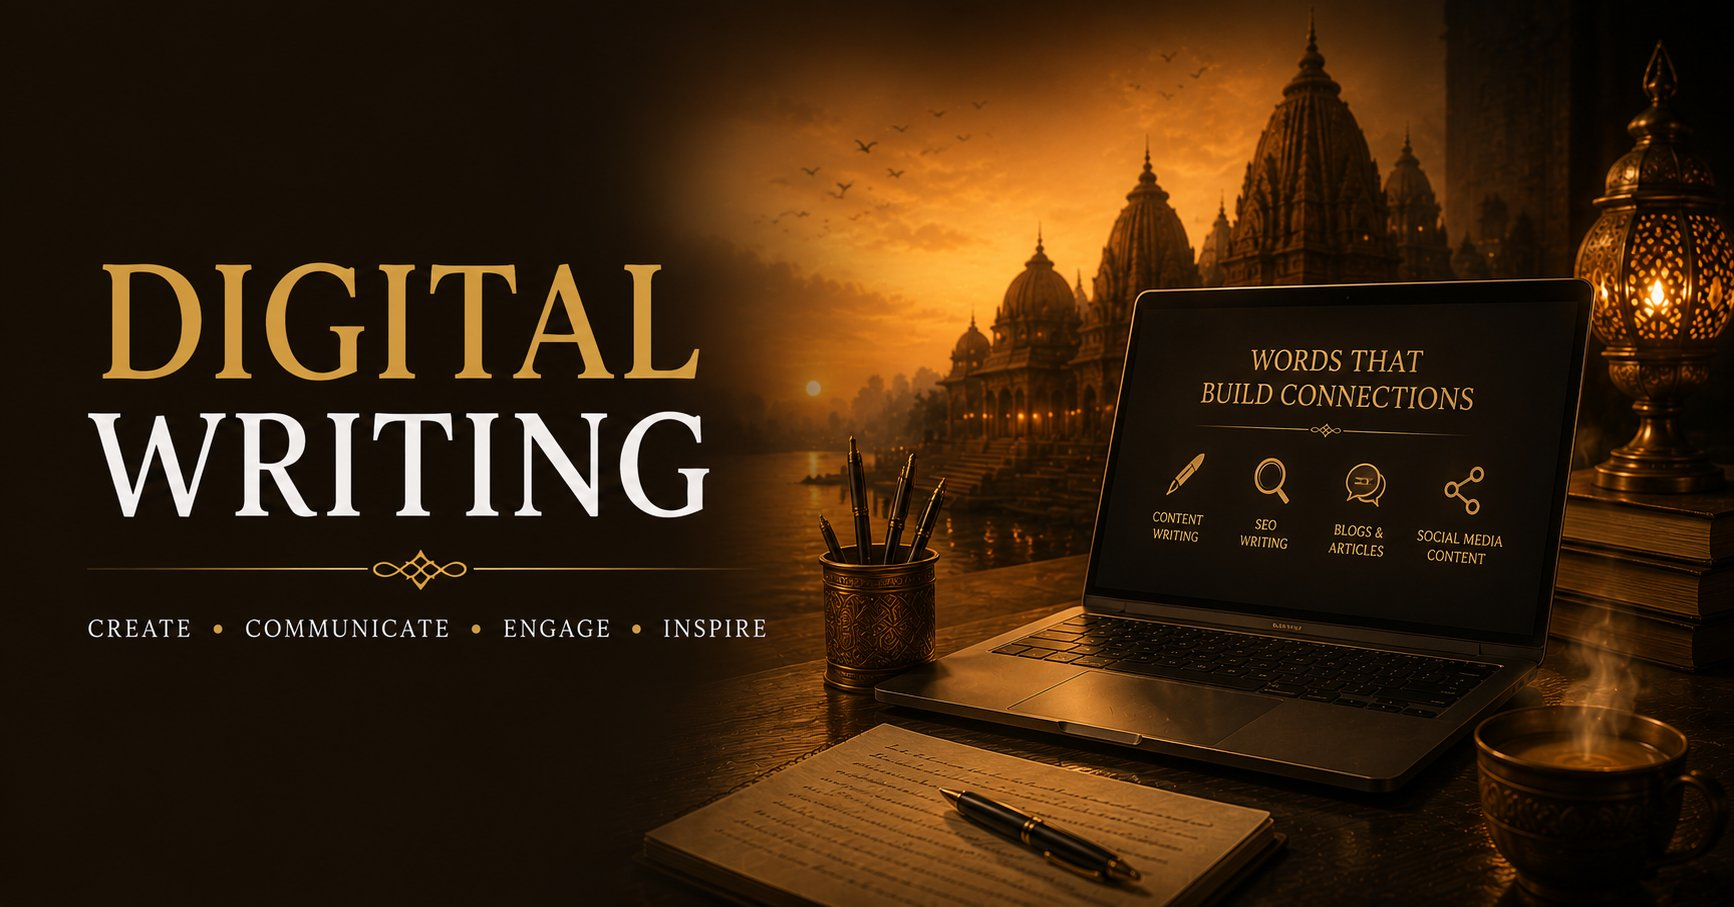
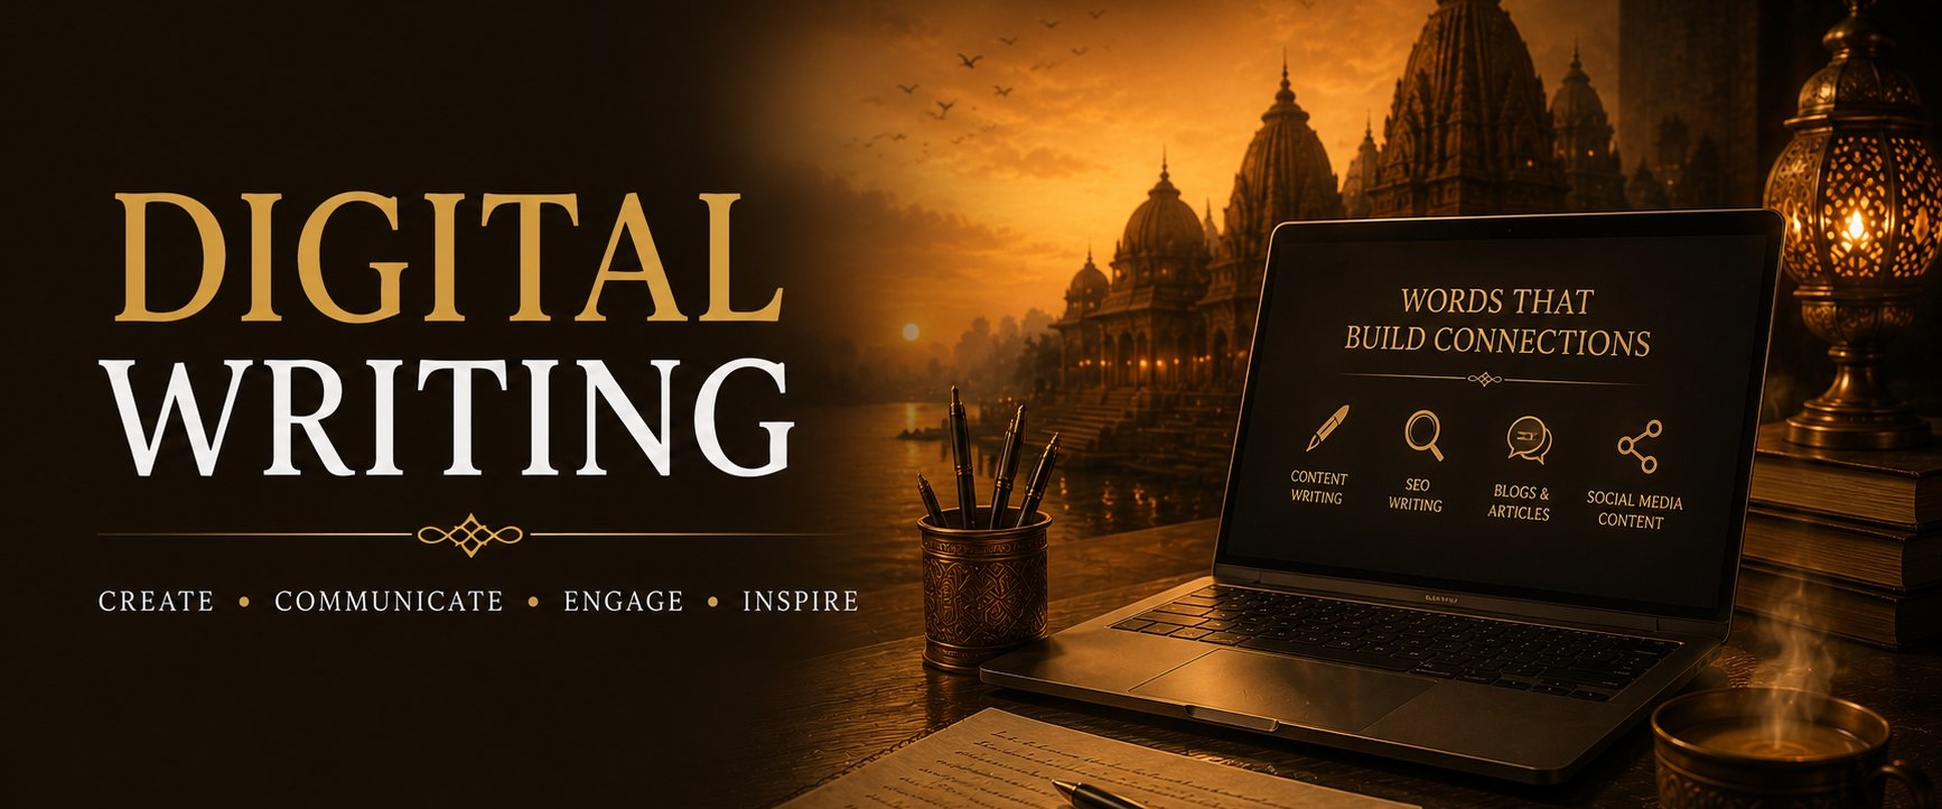
Unify all 12 poster covers to 2.4:1 (1942x809): fix Voice Over, Digital Writing, Commercial & Feature Films alignment and remove inline 82vh

diff --git a/portfolio.css b/portfolio.css
@@ -1927,26 +1927,7 @@ letter-spacing:1px;
 
 }
 /* =====================================================
-   VOICEOVERS — HERO SIZE FIX
-===================================================== */
-
-.voiceovers-page .hero-section,
-.voiceover-page .hero-section {
-    height: 72vh;
-    min-height: 520px;
-    max-height: 760px;
-}
-
-.voiceovers-page .hero-poster img,
-.voiceover-page .hero-poster img {
-    width: 100%;
-    height: 100%;
-    object-fit: cover;
-    display: block;
-}
-
-/* =====================================================
-   VOICEOVERS — INTRO TYPOGRAPHY FIX
+   VOICEOVERS — INTRO TYPOGRAPHY
 ===================================================== */
 
 .voiceovers-page .intro-content span,
@@ -1968,33 +1949,6 @@ letter-spacing:1px;
     line-height: 1.8;
     max-width: 850px;
     margin: 0 auto;
-}
-
-/* =====================================================
-   VOICEOVERS HERO — FINAL SIZE OVERRIDE
-===================================================== */
-
-body.voiceovers-page .hero-section,
-.voiceover-page .hero-section {
-    height: 70vh !important;
-    min-height: 500px !important;
-    max-height: 700px !important;
-    overflow: hidden !important;
-}
-
-body.voiceovers-page .hero-poster,
-body.voiceover-page .hero-poster {
-    width: 100% !important;
-    height: 100% !important;
-    overflow: hidden !important;
-}
-
-body.voiceovers-page .hero-poster img,
-.voiceover-page .hero-poster img {
-    width: 100% !important;
-    height: 100% !important;
-    object-fit: cover !important;
-    display: block !important;
 }
 
 /* =====================================================

diff --git a/digital-writing.html b/digital-writing.html
@@ -44,7 +44,7 @@
     <!-- ================= CSS ================= -->
 
     <link rel="stylesheet"
-          href="portfolio.css?v=subpage_nav_v2">
+          href="portfolio.css?v=posters_aligned_v3">
 
 </head>
 
@@ -87,29 +87,12 @@
                         HERO
 ===================================================== -->
 
-<section class="hero-section"
-         style="height:82vh !important;
-                min-height:0 !important;
-                padding:0 !important;
-                margin:0 !important;
-                position:relative !important;
-                overflow:hidden !important;">
+<section class="hero-section">
 
-    <div class="hero-poster"
-         style="width:100% !important;
-                height:100% !important;
-                margin:0 !important;
-                padding:0 !important;
-                overflow:hidden !important;">
+    <div class="hero-poster">
 
         <img src="images/digital-writing.jpg"
-             alt="Digital Writing"
-             style="display:block !important;
-                    width:100% !important;
-                    height:100% !important;
-                    max-width:none !important;
-                    object-fit:cover !important;
-                    object-position:center center !important;">
+             alt="Digital Writing">
 
     </div>
 

diff --git a/commercial-films.html b/commercial-films.html
@@ -42,7 +42,7 @@
     <!-- EXISTING CSS -->
 
     <link rel="stylesheet"
-          href="portfolio.css?v=subpage_nav_v2">
+          href="portfolio.css?v=posters_aligned_v3">
 
 </head>
 
@@ -85,29 +85,12 @@
                         HERO
 ===================================================== -->
 
-<section class="hero-section"
-         style="height:82vh !important;
-                min-height:0 !important;
-                padding:0 !important;
-                margin:0 !important;
-                position:relative !important;
-                overflow:hidden !important;">
+<section class="hero-section">
 
-    <div class="hero-poster"
-         style="width:100% !important;
-                height:100% !important;
-                margin:0 !important;
-                padding:0 !important;
-                overflow:hidden !important;">
+    <div class="hero-poster">
 
         <img src="images/commercial-films.jpg"
-             alt="Commercial Films"
-             style="display:block !important;
-                    width:100% !important;
-                    height:100% !important;
-                    max-width:none !important;
-                    object-fit:cover !important;
-                    object-position:center center !important;">
+             alt="Commercial Films">
 
     </div>
 

diff --git a/voiceovers.html b/voiceovers.html
@@ -40,7 +40,7 @@
     <!-- ================= CSS ================= -->
 
     <link rel="stylesheet"
-          href="portfolio.css?v=subpage_nav_v2">
+          href="portfolio.css?v=posters_aligned_v3">
 
 </head>
 
@@ -77,29 +77,12 @@
 
 <!-- ================= HERO ================= -->
 
-<section class="hero-section"
-         style="height:82vh !important;
-                min-height:0 !important;
-                padding:0 !important;
-                margin:0 !important;
-                position:relative !important;
-                overflow:hidden !important;">
+<section class="hero-section">
 
-    <div class="hero-poster"
-         style="width:100% !important;
-                height:100% !important;
-                margin:0 !important;
-                padding:0 !important;
-                overflow:hidden !important;">
+    <div class="hero-poster">
 
         <img src="images/voice-over.jpg"
-             alt="Voice Over"
-             style="display:block !important;
-                    width:100% !important;
-                    height:100% !important;
-                    max-width:none !important;
-                    object-fit:cover !important;
-                    object-position:center center !important;">
+             alt="Voice Over">
 
     </div>
 

diff --git a/index.html b/index.html
@@ -14,7 +14,7 @@ Shabdvid | Where Ideas Transform Into Meaningful Stories
 
     <link rel="icon" type="image/png" href="images/favicon.png">
     <link rel="stylesheet" href="https://cdnjs.cloudflare.com/ajax/libs/font-awesome/6.7.2/css/all.min.css">
-    <link rel="stylesheet" href="style.css?v=mobile_poster_fixed">
+    <link rel="stylesheet" href="style.css?v=20261126_posters_aligned">
 
 <link rel="preconnect"
 href="https://fonts.googleapis.com">

diff --git a/light-and-sound-shows.html b/light-and-sound-shows.html
@@ -21,7 +21,7 @@
     <!-- Portfolio CSS -->
     <link rel="stylesheet" href="https://cdnjs.cloudflare.com/ajax/libs/font-awesome/6.7.2/css/all.min.css">
     <link rel="icon" type="image/png" href="images/favicon.png">
-    <link rel="stylesheet" href="portfolio.css?v=subpage_nav_v2">
+    <link rel="stylesheet" href="portfolio.css?v=posters_aligned_v3">
 
 </head>
 

diff --git a/television-production-house.html b/television-production-house.html
@@ -21,7 +21,7 @@
     <!-- Portfolio CSS -->
     <link rel="stylesheet" href="https://cdnjs.cloudflare.com/ajax/libs/font-awesome/6.7.2/css/all.min.css">
     <link rel="icon" type="image/png" href="images/favicon.png">
-    <link rel="stylesheet" href="portfolio.css?v=subpage_nav_v2">
+    <link rel="stylesheet" href="portfolio.css?v=posters_aligned_v3">
 
 </head>
 

diff --git a/books-and-articles.html b/books-and-articles.html
@@ -34,7 +34,7 @@
           href="https://cdnjs.cloudflare.com/ajax/libs/font-awesome/6.7.2/css/all.min.css">
 
     <!-- ================= CSS ================= -->
-    <link rel="stylesheet" href="portfolio.css?v=subpage_nav_v2">
+    <link rel="stylesheet" href="portfolio.css?v=posters_aligned_v3">
 
 </head>
 

diff --git a/songs-and-jingles.html b/songs-and-jingles.html
@@ -34,7 +34,7 @@
           href="https://cdnjs.cloudflare.com/ajax/libs/font-awesome/6.7.2/css/all.min.css">
 
     <!-- ================= CSS ================= -->
-    <link rel="stylesheet" href="portfolio.css?v=subpage_nav_v2">
+    <link rel="stylesheet" href="portfolio.css?v=posters_aligned_v3">
 
 </head>
 

diff --git a/state-government-projects.html b/state-government-projects.html
@@ -34,7 +34,7 @@
           href="https://cdnjs.cloudflare.com/ajax/libs/font-awesome/6.7.2/css/all.min.css">
 
     <!-- ================= CSS ================= -->
-    <link rel="stylesheet" href="portfolio.css?v=subpage_nav_v2">
+    <link rel="stylesheet" href="portfolio.css?v=posters_aligned_v3">
 
 </head>
 

diff --git a/real-estate-promotional-films.html b/real-estate-promotional-films.html
@@ -14,7 +14,7 @@
       content="Real Estate Promotional Films Portfolio by Shabdvid">
 
     <link rel="stylesheet"
-          href="portfolio.css?v=subpage_nav_v2">
+          href="portfolio.css?v=posters_aligned_v3">
 
     <link rel="preconnect"
           href="https://fonts.googleapis.com">

diff --git a/spiritual-documentary.html b/spiritual-documentary.html
@@ -14,7 +14,7 @@
           content="Spiritual Documentary Portfolio by Shabdvid">
 
     <link rel="stylesheet"
-          href="portfolio.css?v=subpage_nav_v2">
+          href="portfolio.css?v=posters_aligned_v3">
 
     <link rel="preconnect"
           href="https://fonts.googleapis.com">
